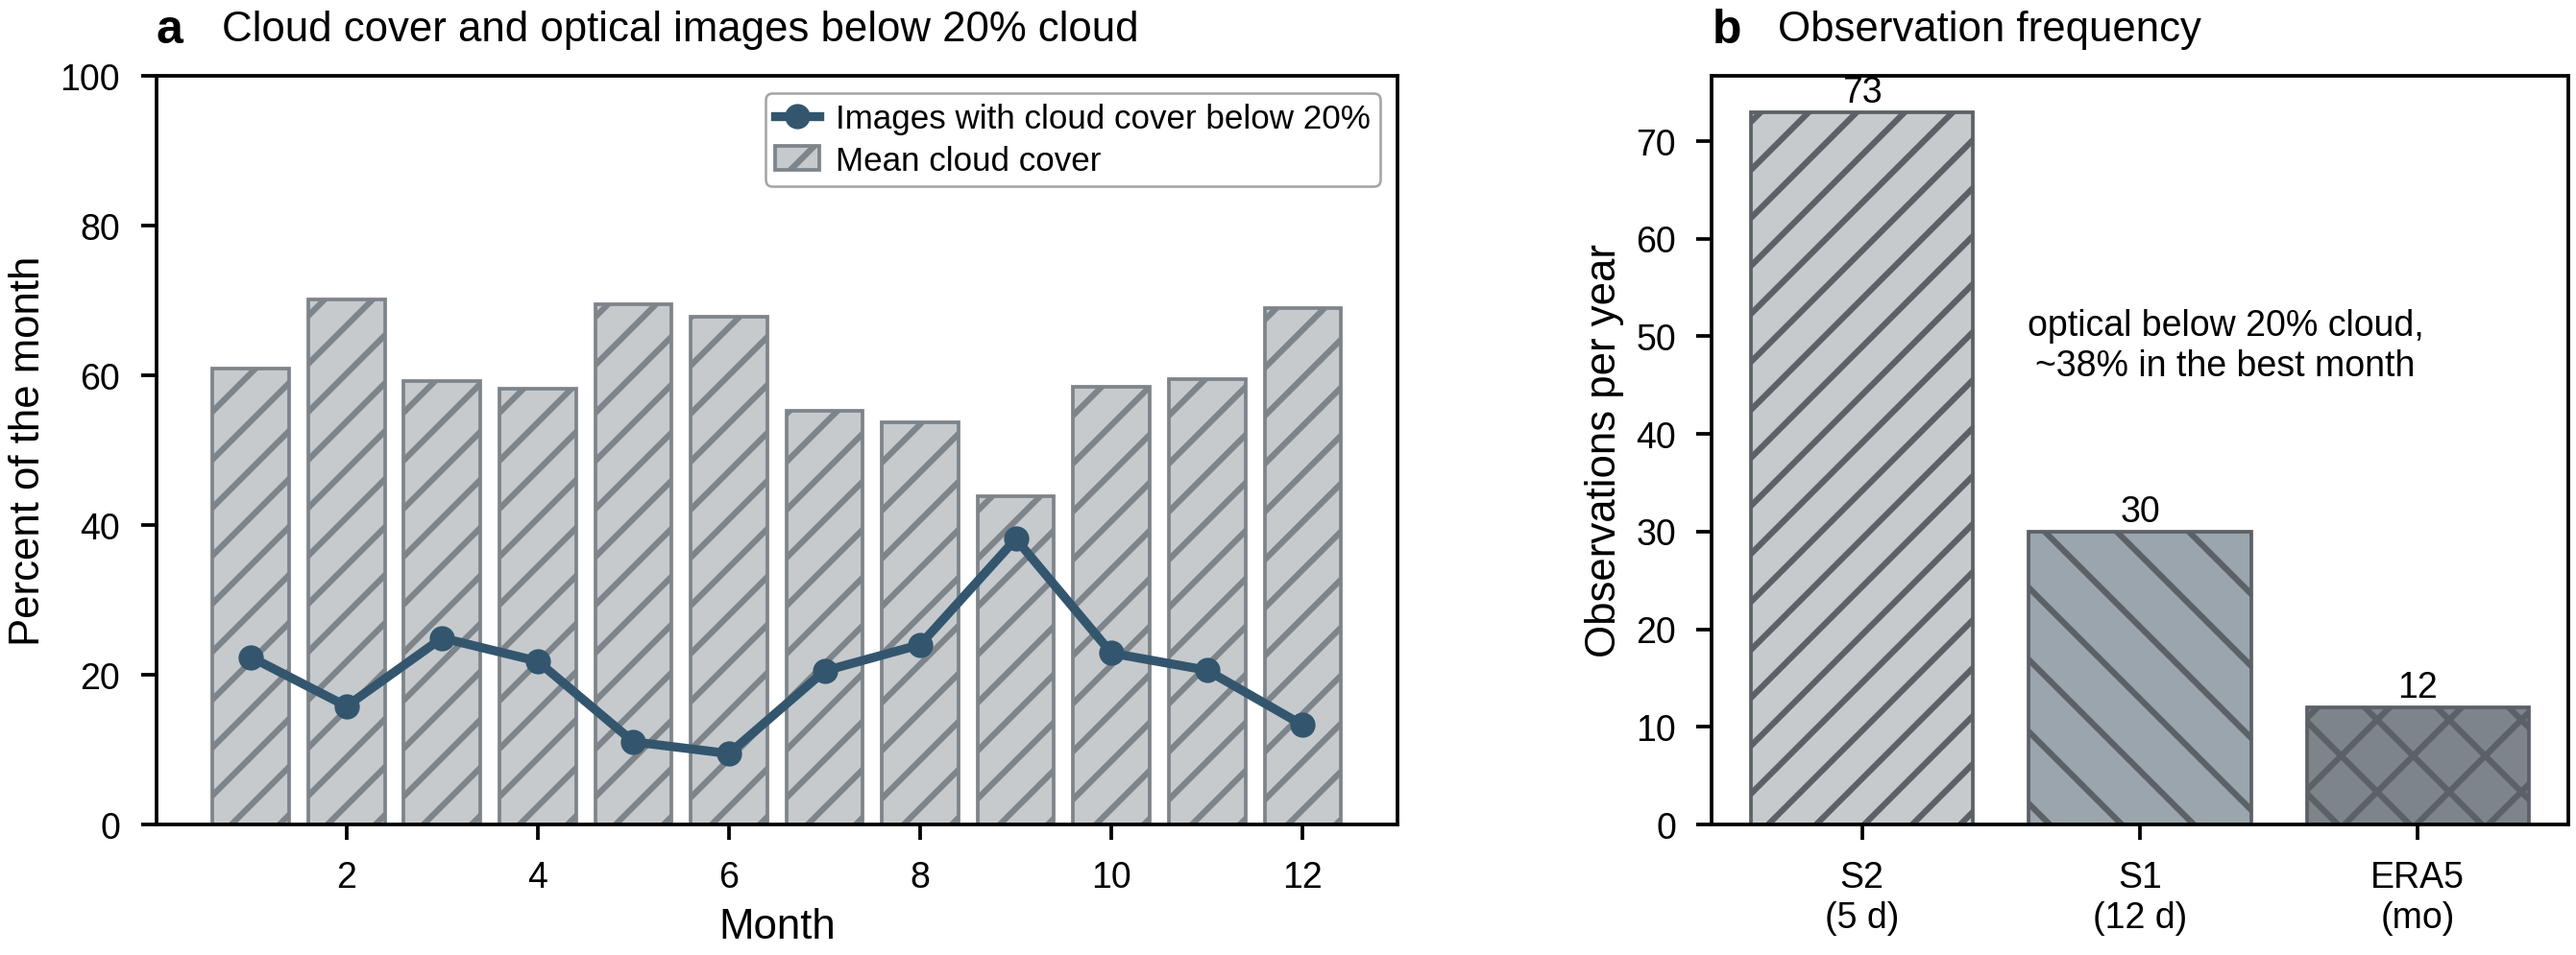
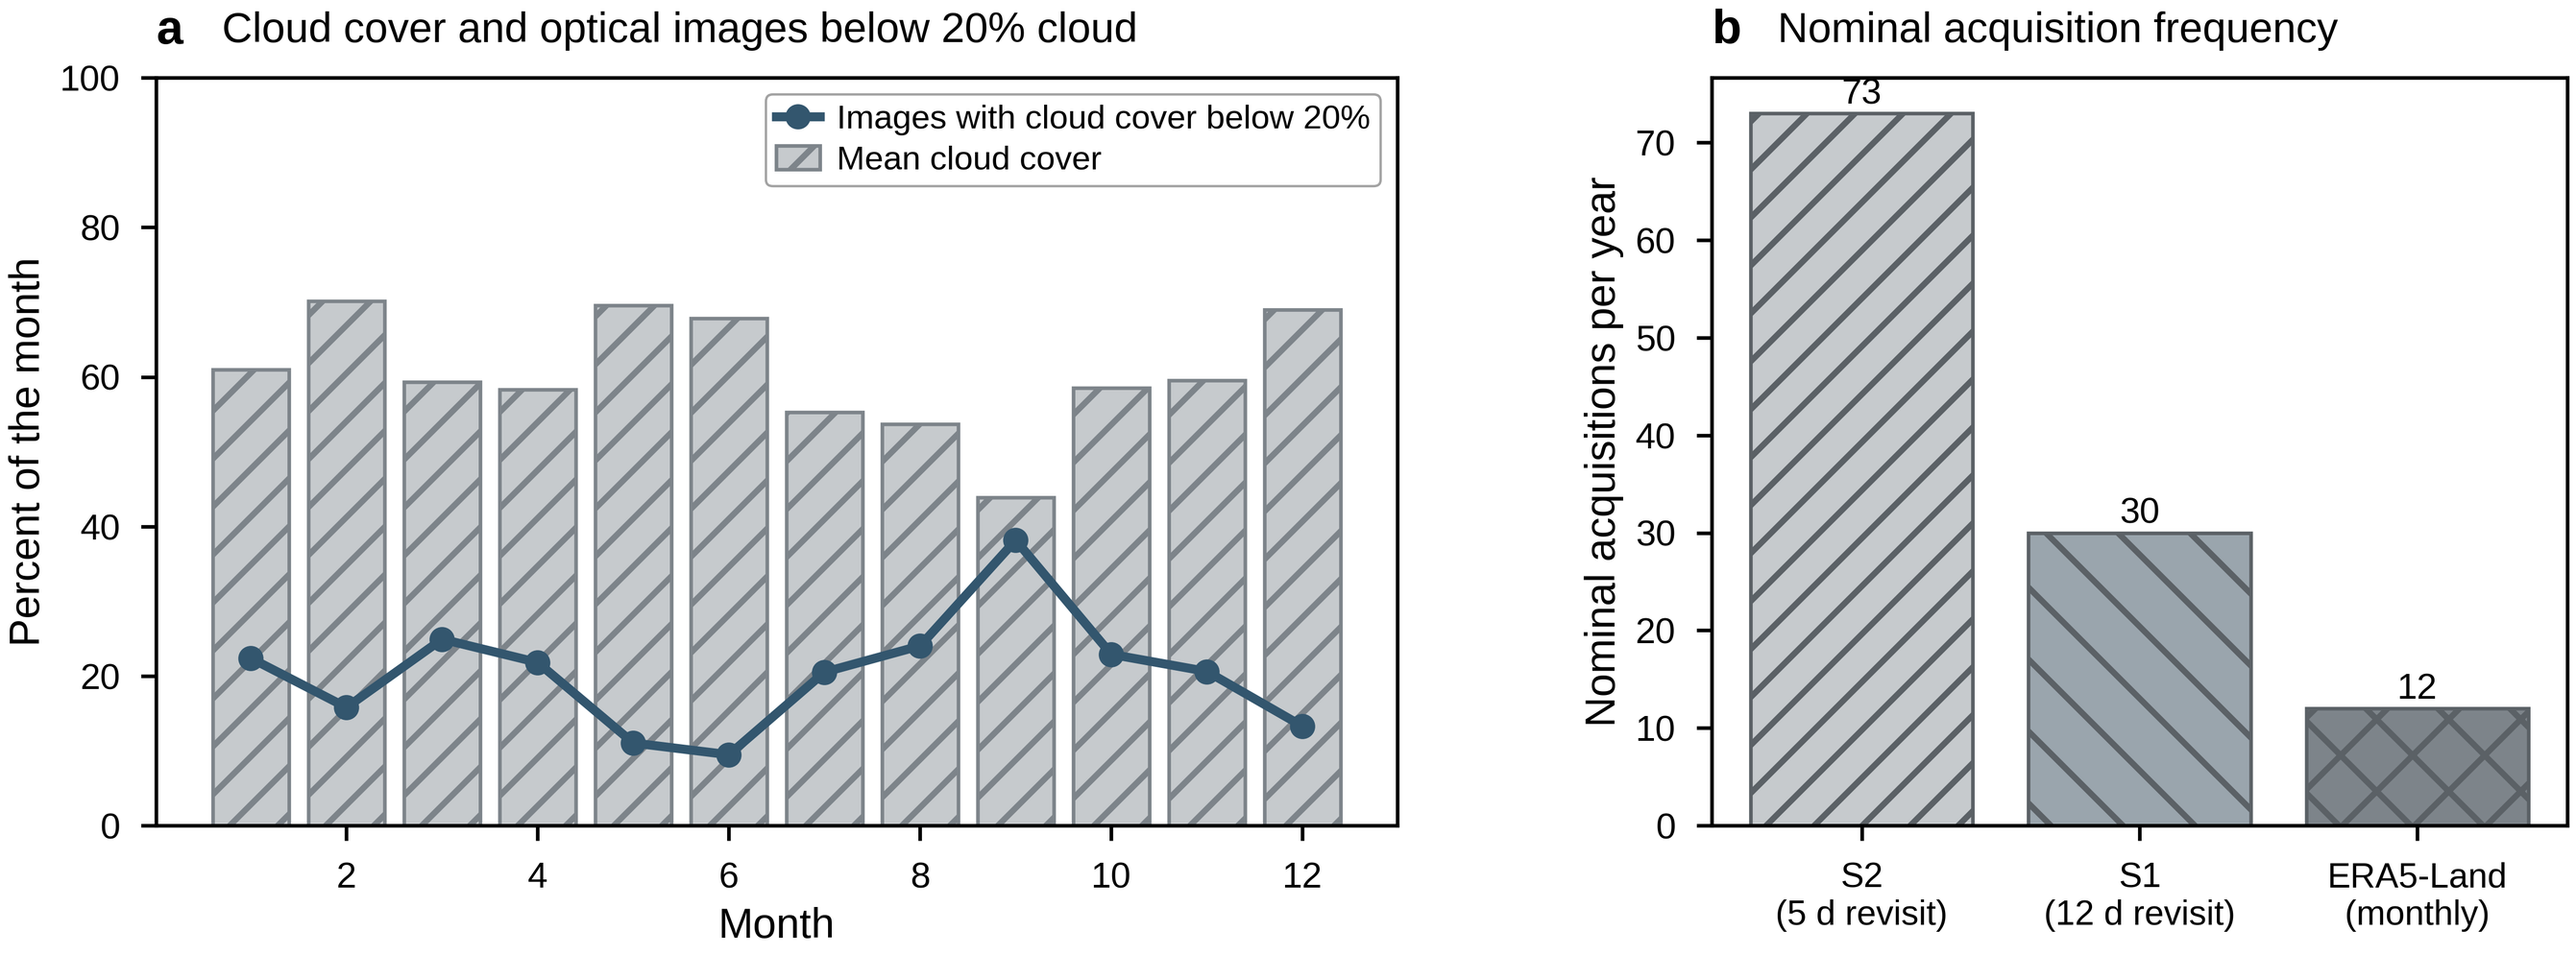
v1.1.3: environmental-niche statistics (circular mean of the NDMI phase); figures 2, 5 and 8 refreshed

diff --git a/src/analyses/table4_niche.py b/src/analyses/table4_niche.py
@@ -1,0 +1,19 @@
+# -*- coding: utf-8 -*-
+"""Class means of the environmental niche variables of the 755 reference points (2021 to 2024 features, 34-feature table)
+for the environmental-niche table: elevation, mean annual temperature, slope, and the NDMI first-harmonic phase as a circular mean
+(the phase wraps at +/- pi, so its arithmetic mean is not meaningful). The dominant SHAP features and their directions per
+class are read from canonical_v3_C.json (class_top3_direction). Output: results/analyses/table4_niche.json."""
+import numpy as np, pandas as pd, json, os
+HERE=os.path.dirname(os.path.abspath(__file__)); REPO=os.path.dirname(os.path.dirname(HERE))
+DATA=os.path.join(REPO,"data","analyses"); OUT=os.path.join(REPO,"results","analyses")
+tr=pd.read_csv(os.path.join(DATA,"features_train4yr_v2.csv"))
+C=json.load(open(os.path.join(OUT,"canonical_v3_C.json")))["shap_34"]["class_top3_direction"]
+def circmean(a): return float(np.arctan2(np.sin(a).mean(),np.cos(a).mean()))
+out={"n":int(len(tr)),"source":"features_train4yr_v2.csv (755 reference points, 2021-2024 window)","classes":{}}
+for c,name in ((1,"Broadleaf"),(2,"Conifer"),(3,"Bamboo")):
+    d=tr[tr.cls==c]
+    out["classes"][name]=dict(n=int(len(d)),elev_mean=round(float(d.elev.mean()),0),temp_mean=round(float(d.temp_mean.mean()),1),slope_mean=round(float(d.slope.mean()),1),
+                              NDMI_pha_circmean=round(circmean(d.NDMI_pha.values),2),NDMI_pha_arithmetic_mean=round(float(d.NDMI_pha.mean()),2),
+                              shap_top3_direction=C[name])
+print(json.dumps(out["classes"],indent=None))
+json.dump(out,open(os.path.join(OUT,"table4_niche.json"),"w"),indent=1)

diff --git a/README.md b/README.md
@@ -56,6 +56,7 @@ agreement with the 2008–2014 inventory labels at the reference points.
 | `canonical_v3_C_vif.py` | collinearity screen nested within the folds: exact linear combinations removed first, then iterative VIF = 1/(1 − R²) until all below 10; RF scored on the held-out blocks | `canonical_v3_C_vif.json` |
 | `models_perclass_f1.py` | per-class F1 of every configuration of the model comparison from the frozen predictions (`preds_v3.npz`, `preds_v3_D.npz`, `preds_v2_deep.npz`) | `canonical_v3_models_f1.json` |
 | `prior_sensitivity.py` | effect of the island-map class priors (0.800 / 0.153 / 0.047) on the out-of-fold next-year predictions of the reference RF at the 755 reference points; a sensitivity of the prior at the balanced sample, not the accuracy of the island map | `prior_sensitivity.json` |
+| `table4_niche.py` | class means of elevation, mean annual temperature and slope and the circular mean of the NDMI first-harmonic phase at the 755 reference points, with the dominant SHAP features per class | `table4_niche.json` |
 | `canonical_v3_D.py` | broadleaf–bamboo enhancement strategies (texture, spring red-edge, hierarchical model, oracle gating, DINOv2 embeddings, multi-year biennial descriptors, fusion network), Presto heads | `canonical_v3_D.json`, `preds_v3_D.npz` |
 | `rerun_deep_aligned.py`, `canonical_v2_D1.py`, `canonical_v2_D2.py` | TempCNN, BiLSTM, Transformer and LTAE on calendar-aligned monthly sequences with fold-internal standardisation and three seeds, optical-month masking, sequence length, Transformer label efficiency (require PyTorch) | `rev_deep_aligned*.json`, `preds_v2_deep.npz`, `canonical_v2_D1.json`, `canonical_v2_D2.json` |
 | `canonical_v2_E_periodicity.py` | period-two test of the 2005–2020 annual Landsat NDVI series against an AR(1) null | `canonical_v2_E_periodicity.json` |
@@ -96,8 +97,8 @@ an area estimate, and the bamboo it maps should be treated as candidate location
 
 ## Versions
 
-`v1.1.2` is the current 34-feature release described here (it adds the nested collinearity screen, the per-class F1 of the
-model comparison, the prior sensitivity and the redrawn figures to `v1.1.1`, a documentation and metadata revision of `v1.1.0`). `v1.0.0` is the earlier 35-feature release; its
+`v1.1.3` is the current 34-feature release described here (`v1.1.2` added the nested collinearity screen, the per-class F1 of the
+model comparison, the prior sensitivity and the redrawn figures to `v1.1.1`, a documentation and metadata revision of `v1.1.0`; `v1.1.3` adds the environmental-niche statistics and refreshes three figures). `v1.0.0` is the earlier 35-feature release; its
 tables are kept under `data/archive_v1_35features/` and section 0 of `src/analyses/canonical_v3.py`
 reproduces its numbers. See `CHANGELOG.md`.
 

diff --git a/CHANGELOG.md b/CHANGELOG.md
@@ -1,5 +1,14 @@
 # Changelog
 
+## v1.1.3 — 2026-09-19
+
+- New `src/analyses/table4_niche.py` and `results/analyses/table4_niche.json`: class means of the environmental niche variables
+  at the 755 reference points (2021–2024 features), with the NDMI first-harmonic phase as a circular mean (the phase wraps at ±π).
+- Figures refreshed: `fig5_model_benchmark.png` (intervals of the sequence models now belong to the three-seed mean, as the bars do),
+  `fig8_confusion.png` (panel c shows the mean independent-year NDMI curves of the 52 broadleaf points misclassified as bamboo and of the
+  26 bamboo points misclassified as broadleaf, instead of two selected points), `fig2_cloud_availability.png` (panel b labelled as nominal
+  acquisition frequency). No change to the data, the models or the accuracies.
+
 ## v1.1.2 — 2026-09-18
 
 - Collinearity screen corrected. `canonical_v3_C.py` used the diagonal of the pseudo-inverse of the correlation matrix as the
